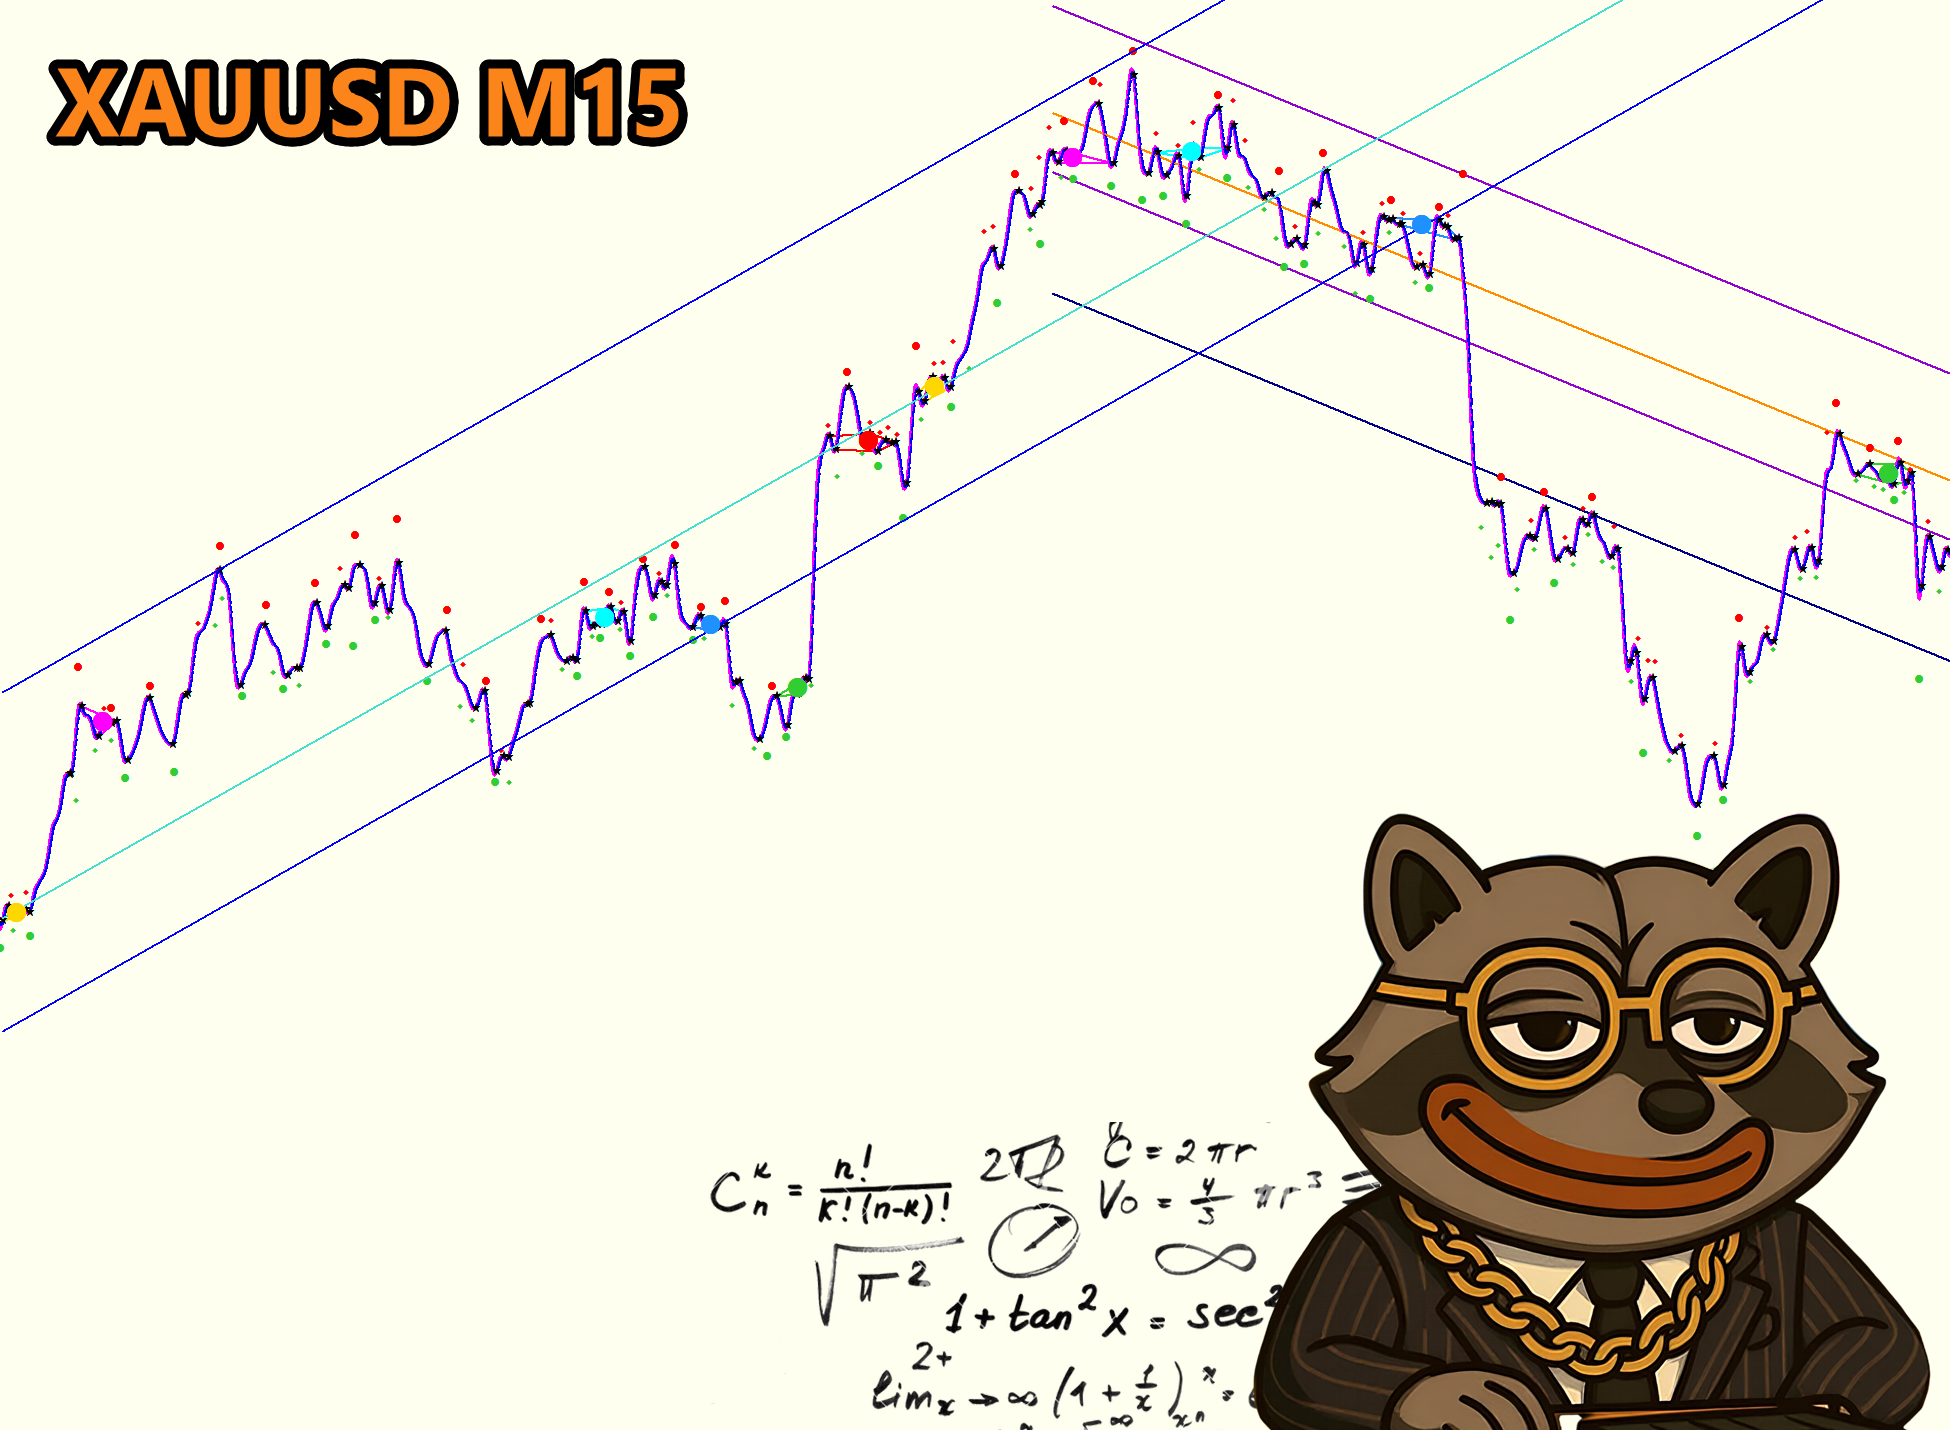
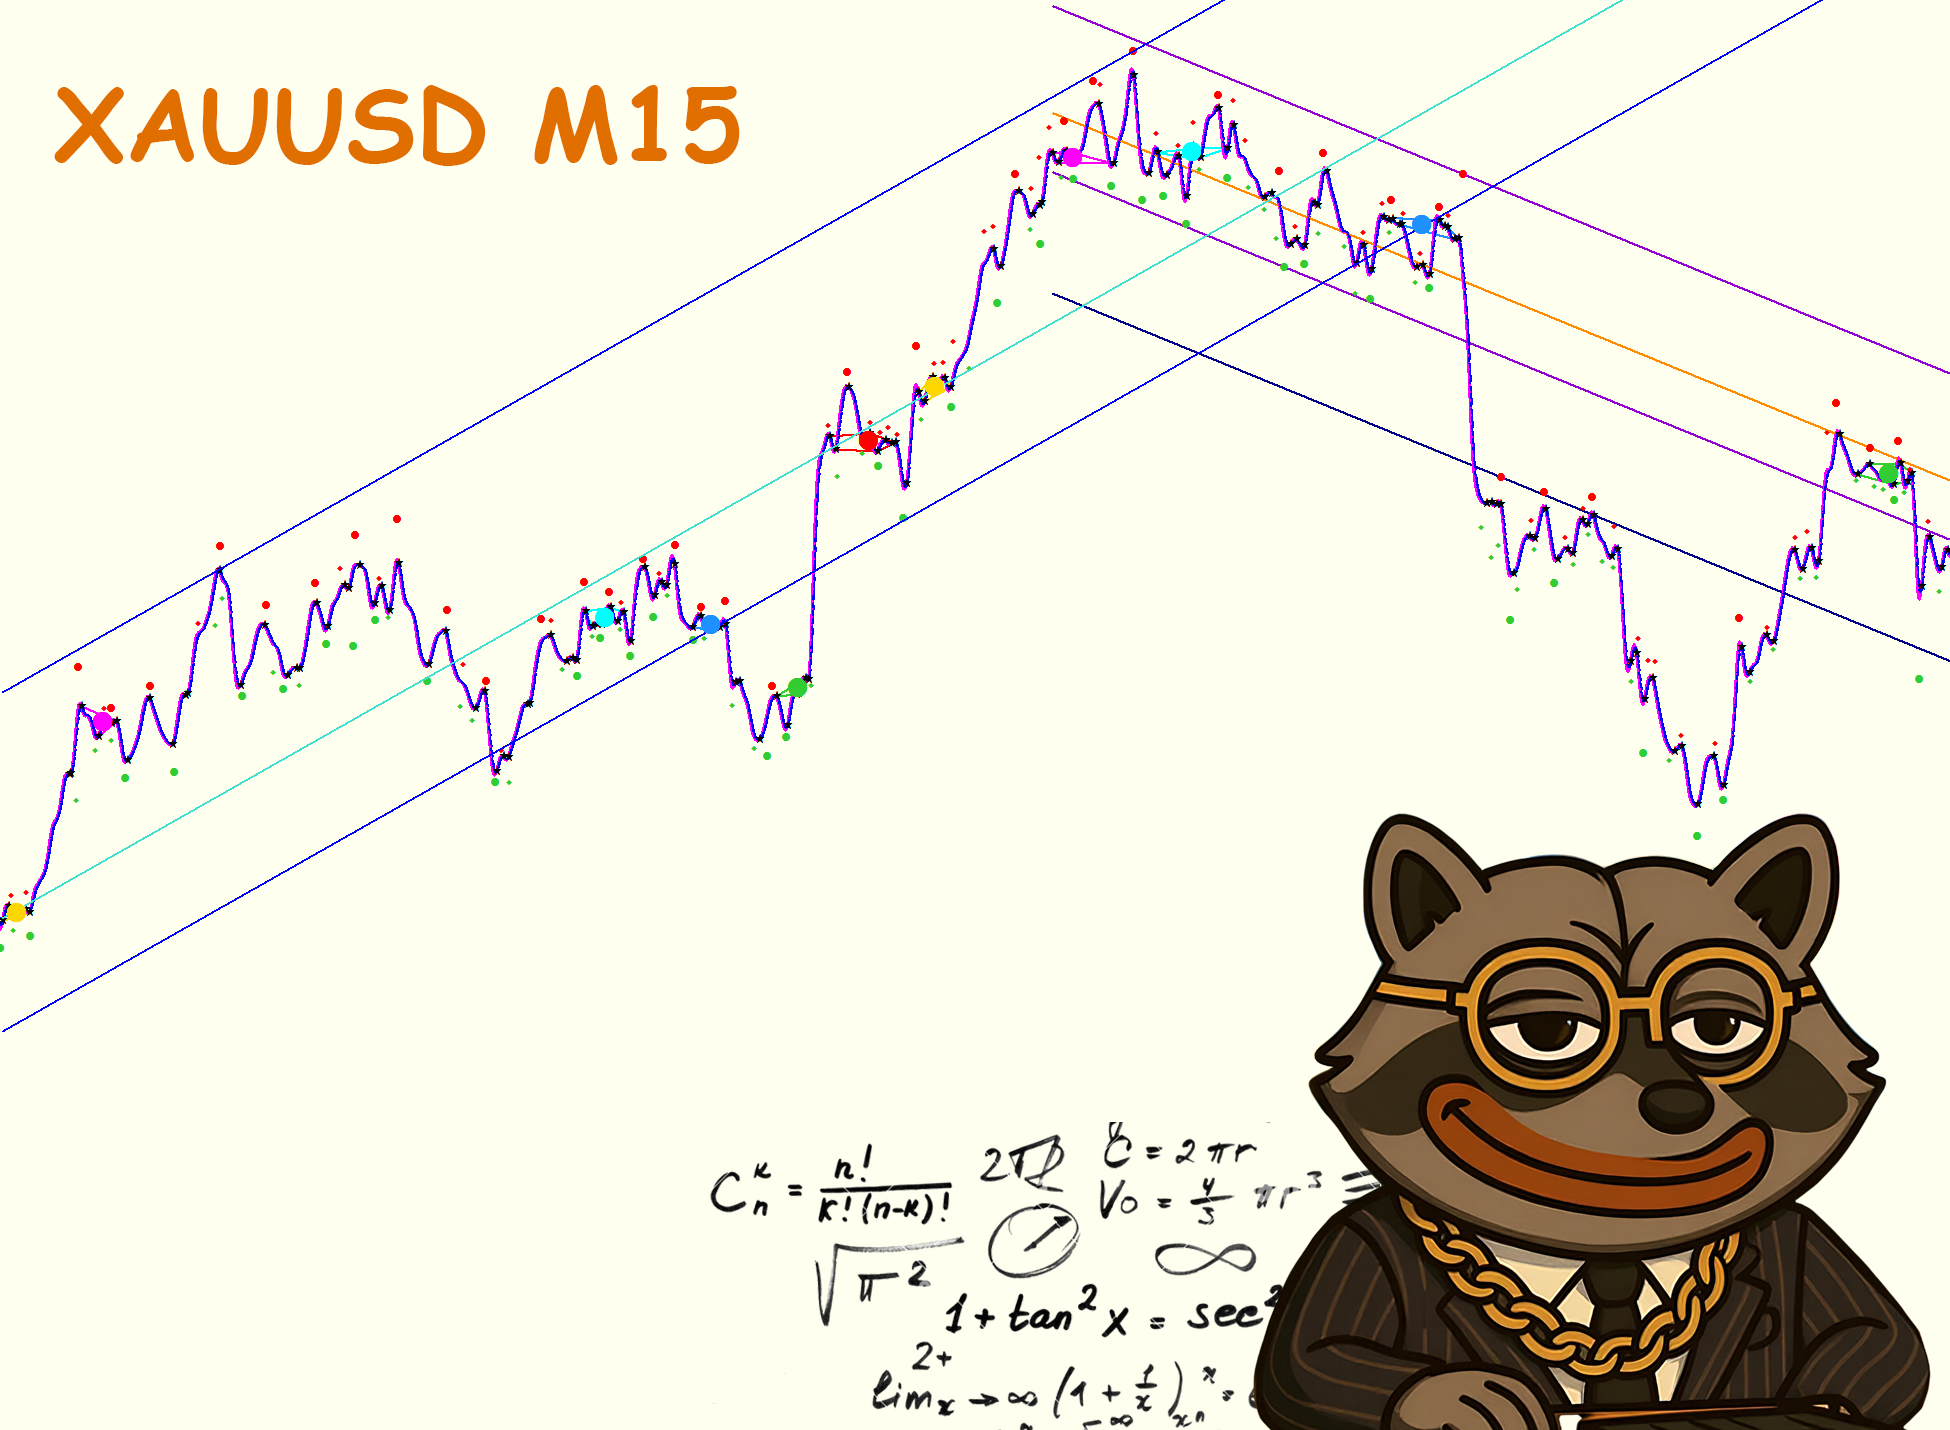
feat(landing): swap hero mascot image by theme, confirm ticker tape already theme-aware
Davin polished the hero mascot/chart artwork and supplied a matching
dark-mode inverted twin (mathematic-trading1-invert.png). LandingHero
now picks between the light and inverted image based on the resolved
appearance theme instead of always showing the light version:

- Main app reads resolvedTheme from useChartAppearance()
  (AppearanceProvider), the same source trading-chart.tsx and
  ticker-tape.tsx already use.
- seed-code's hero mirrors the same behavior via next-themes'
  useTheme() -- that reference app's own appearance-provider.tsx
  predates the 2026-09-04 Theme Mode fix session and has no
  resolvedTheme field, so it follows trading-chart.tsx's existing
  next-themes idiom within that codebase instead of porting the fix.

TickerTape needed no change: it already threads resolvedTheme through
as colorTheme on the embedded TradingView widget and fully re-inits on
theme change -- confirmed live by toggling the navbar theme button and
watching both the hero image and the ticker flip together.

Changed region(s): [[0.0308, 0.0308, 0.4, 0.1231]]

diff --git a/seed-code/trading-conversational-ai-ui-pages-increment/components/landing/landing-hero.tsx b/seed-code/trading-conversational-ai-ui-pages-increment/components/landing/landing-hero.tsx
@@ -4,6 +4,7 @@ import { useState } from 'react';
 import Image from 'next/image';
 import Link from 'next/link';
 import { useRouter } from 'next/navigation';
+import { useTheme } from 'next-themes';
 import { Button } from '@/components/ui/button';
 import { useSupportChat } from '@/components/chat-widget/chat-context';
 import { useLocale } from '@/lib/context/locale-context';
@@ -14,6 +15,11 @@ export function LandingHero() {
   const [prompt, setPrompt] = useState(t('How can I help you today ?'));
   const router = useRouter();
   const { openChatWithMessage } = useSupportChat();
+  const { resolvedTheme } = useTheme();
+  const heroImageSrc =
+    resolvedTheme === 'dark'
+      ? '/mathematic-trading1-invert.png'
+      : '/mathematic-trading1.png';
 
   const handleLaunchSupport = () => {
     if (prompt.trim()) {
@@ -163,7 +169,7 @@ export function LandingHero() {
               <div className="relative rounded-3xl border border-slate-700/80 bg-white p-3 shadow-2xl shadow-black dark:bg-[#0b0e17]">
                 <div className="relative overflow-hidden rounded-2xl border border-slate-200 dark:border-slate-800">
                   <Image
-                    src="/mathematic-trading1.png"
+                    src={heroImageSrc}
                     alt={t(
                       'DavinTrade Gold Trade Analyst Mascot with XAUUSD Chart Analysis'
                     )}

diff --git a/components/landing/landing-hero.tsx b/components/landing/landing-hero.tsx
@@ -3,6 +3,7 @@
 import Image from 'next/image';
 import Link from 'next/link';
 import { useSession } from 'next-auth/react';
+import { useChartAppearance } from '@/components/providers/appearance-provider';
 import { useLocale } from '@/lib/context/locale-context';
 import { ArrowRight } from 'lucide-react';
 
@@ -17,6 +18,11 @@ import { ArrowRight } from 'lucide-react';
 export function LandingHero() {
   const { t } = useLocale();
   const { data: session, status } = useSession();
+  const { resolvedTheme } = useChartAppearance();
+  const heroImageSrc =
+    resolvedTheme === 'dark'
+      ? '/mathematic-trading1-invert.png'
+      : '/mathematic-trading1.png';
 
   const userTier = (session?.user as { tier?: string } | undefined)?.tier;
   const workbenchHref = userTier === 'PRO' ? '/terminal' : '/free';
@@ -101,7 +107,7 @@ export function LandingHero() {
               <div className="relative rounded-3xl border border-slate-700/80 bg-white p-3 shadow-2xl shadow-black dark:bg-[#0b0e17]">
                 <div className="relative overflow-hidden rounded-2xl border border-slate-200 dark:border-slate-800">
                   <Image
-                    src="/mathematic-trading1.png"
+                    src={heroImageSrc}
                     alt={t(
                       'DavinTrade Gold Trade Analyst Mascot with XAUUSD Chart Analysis'
                     )}
